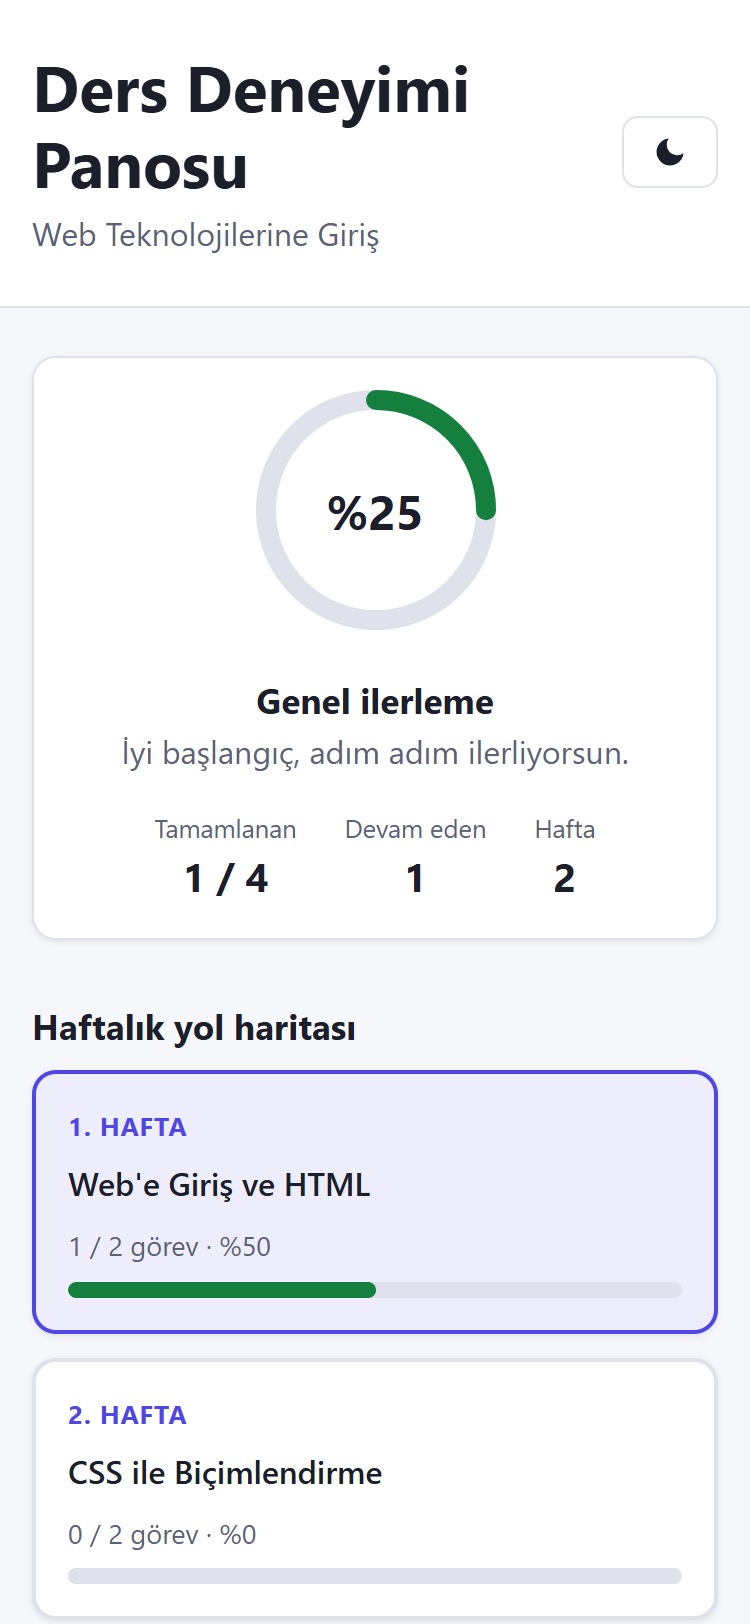
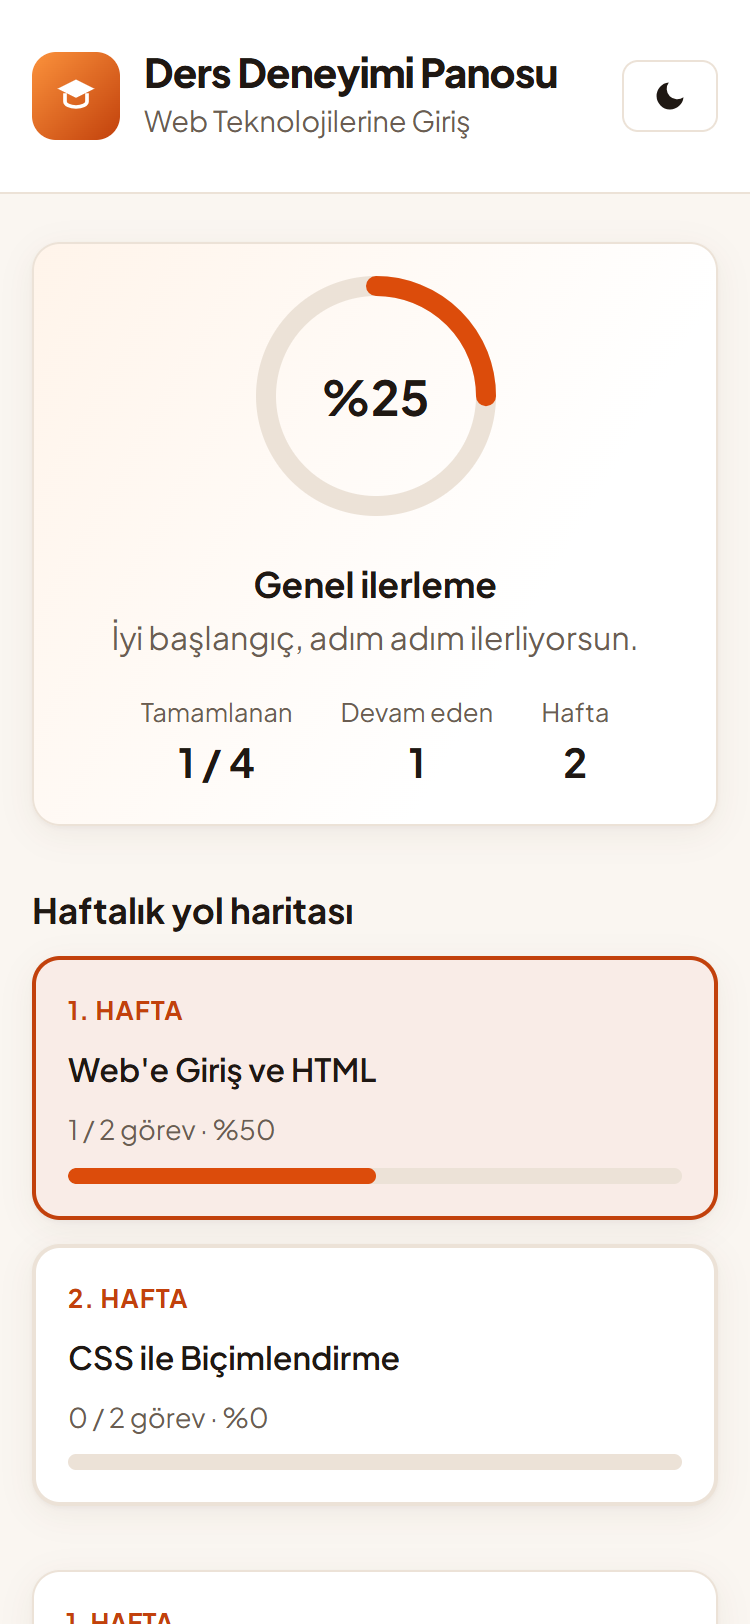
switch to orange theme with Plus Jakarta Sans font
Darker accent for progress fills to meet 3:1 non-text contrast.

diff --git a/src/styles/tokens.css b/src/styles/tokens.css
@@ -1,19 +1,30 @@
 /*
-  Tasarım değişkenleri (renk, boşluk, köşe).
+  Tasarım değişkenleri (renk, yazı tipi, boşluk, köşe).
   Bileşenlerde renk doğrudan yazılmaz; hep bu değişkenler kullanılır.
   Böylece tema değişince bütün sayfa birlikte değişir.
+
+  Palet: sıcak, turuncu vurgulu. Metin renkleri WCAG AA kontrast oranını
+  (normal metinde en az 4.5:1) karşılayacak şekilde seçildi.
 */
 :root {
   color-scheme: light;
-  --color-bg: #f6f7fb;
+
+  --color-bg: #faf6f1;
   --color-surface: #ffffff;
-  --color-text: #1c1f2a;
-  --color-text-muted: #5b6275;
-  --color-border: #dfe2ea;
-  --color-primary: #4f46e5;
+  --color-surface-warm: #fff4ea;
+  --color-text: #1f1813;
+  --color-text-muted: #6b5d52;
+  --color-border: #ece2d7;
+
+  /* Vurgu rengi: düğmeler, seçili öğeler, odak çerçevesi */
+  --color-primary: #c2410c;
   --color-primary-text: #ffffff;
-  --color-todo: #6b7280;
-  --color-progress: #b45309;
+  /* İlerleme halkası ve çubukları */
+  --color-accent: #dc4c0b;
+
+  /* Görev durumları */
+  --color-todo: #78716c;
+  --color-progress: #1d4ed8;
   --color-done: #15803d;
   --color-danger: #b91c1c;
 
@@ -24,24 +35,30 @@
   --space-6: 24px;
   --space-8: 32px;
 
-  --radius: 12px;
-  --shadow: 0 1px 3px rgb(0 0 0 / 0.08);
-  --font: system-ui, -apple-system, 'Segoe UI', Roboto, sans-serif;
+  --radius: 14px;
+  --shadow: 0 1px 2px rgb(60 30 10 / 0.04), 0 4px 16px rgb(60 30 10 / 0.06);
+  --font: 'Plus Jakarta Sans Variable', system-ui, -apple-system, 'Segoe UI', Roboto, sans-serif;
 }
 
 /* Karanlık tema: <html data-theme="dark"> olduğunda devreye girer. */
 :root[data-theme='dark'] {
   color-scheme: dark;
-  --color-bg: #12141c;
-  --color-surface: #1c1f2a;
-  --color-text: #eceef4;
-  --color-text-muted: #a3a9b8;
-  --color-border: #2e3242;
-  --color-primary: #8b85ff;
-  --color-primary-text: #12141c;
-  --color-todo: #9ca3af;
-  --color-progress: #f59e0b;
+
+  --color-bg: #15110e;
+  --color-surface: #201a16;
+  --color-surface-warm: #2a1f17;
+  --color-text: #f6efe8;
+  --color-text-muted: #b6a99d;
+  --color-border: #3a2f28;
+
+  --color-primary: #fb923c;
+  --color-primary-text: #1a0f06;
+  --color-accent: #fb923c;
+
+  --color-todo: #a8a29e;
+  --color-progress: #60a5fa;
   --color-done: #4ade80;
   --color-danger: #f87171;
+
   --shadow: none;
 }

diff --git a/src/App.vue b/src/App.vue
@@ -51,9 +51,17 @@ watch(
 <template>
   <header class="app-header">
     <div class="container header-inner">
-      <div>
-        <h1>Ders Deneyimi Panosu</h1>
-        <p class="subtitle">Web Teknolojilerine Giriş</p>
+      <div class="brand">
+        <span class="logo" aria-hidden="true">
+          <svg viewBox="0 0 24 24" width="22" height="22">
+            <path d="M12 3 2 8l10 5 10-5-10-5z" fill="currentColor" />
+            <path d="M6 10.5V15c0 1.7 2.7 3 6 3s6-1.3 6-3v-4.5" fill="none" stroke="currentColor" stroke-width="2" />
+          </svg>
+        </span>
+        <div>
+          <h1>Ders Deneyimi Panosu</h1>
+          <p class="subtitle">Web Teknolojilerine Giriş</p>
+        </div>
       </div>
       <ThemeToggle />
     </div>
@@ -91,8 +99,33 @@ watch(
   gap: var(--space-4);
 }
 
+.brand {
+  display: flex;
+  align-items: center;
+  gap: var(--space-3);
+  min-width: 0;
+}
+
+.logo {
+  display: grid;
+  place-items: center;
+  flex-shrink: 0;
+  width: 44px;
+  height: 44px;
+  border-radius: 12px;
+  color: #fff;
+  background: linear-gradient(135deg, #fb923c, #c2410c);
+}
+
+.app-header h1 {
+  font-size: clamp(1.25rem, 4vw, 1.75rem);
+  font-weight: 800;
+  letter-spacing: -0.02em;
+}
+
 .subtitle {
-  margin: var(--space-1) 0 0;
+  margin: 2px 0 0;
+  font-size: 0.9rem;
   color: var(--color-text-muted);
 }
 

diff --git a/src/components/ProgressSummary.vue b/src/components/ProgressSummary.vue
@@ -48,7 +48,7 @@ const message = computed(() => {
   align-items: center;
   gap: var(--space-6);
   padding: var(--space-6);
-  background: var(--color-surface);
+  background: linear-gradient(120deg, var(--color-surface-warm), var(--color-surface) 70%);
   border: 1px solid var(--color-border);
   border-radius: var(--radius);
   box-shadow: var(--shadow);

diff --git a/src/components/ProgressBar.vue b/src/components/ProgressBar.vue
@@ -29,7 +29,7 @@ defineProps<{
 
 .fill {
   height: 100%;
-  background: var(--color-done);
+  background: var(--color-accent);
   border-radius: inherit;
   transition: width 0.4s ease;
 }

diff --git a/src/main.ts b/src/main.ts
@@ -1,5 +1,6 @@
 import { createApp } from 'vue'
 import App from './App.vue'
+import '@fontsource-variable/plus-jakarta-sans'
 import './styles/base.css'
 
 createApp(App).mount('#app')

diff --git a/src/components/ProgressRing.vue b/src/components/ProgressRing.vue
@@ -64,7 +64,7 @@ circle {
 }
 
 .fill {
-  stroke: var(--color-done);
+  stroke: var(--color-accent);
   stroke-linecap: round;
   transition: stroke-dashoffset 0.4s ease;
 }
